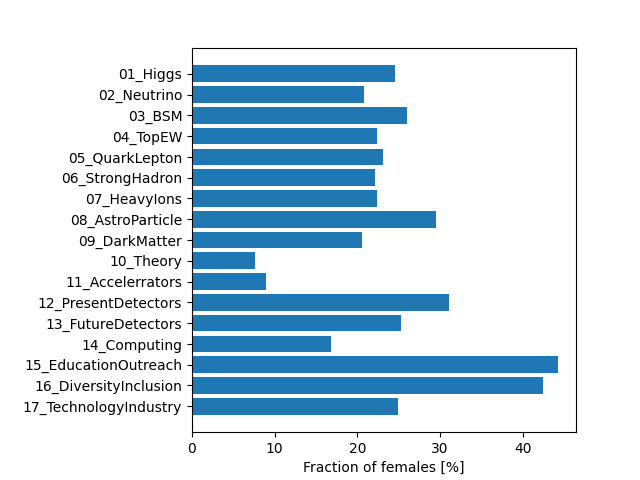
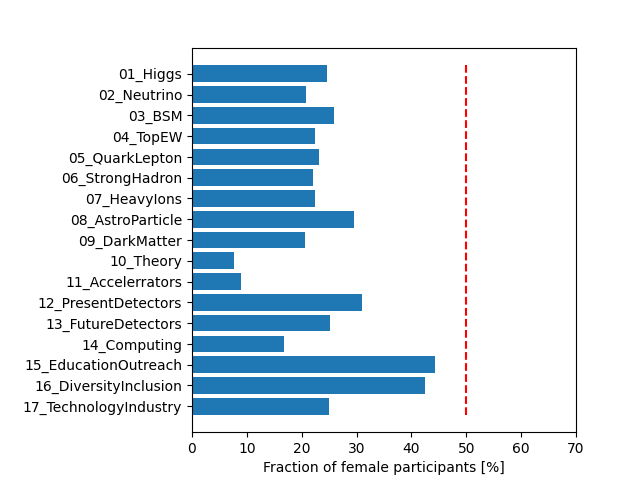
Adding stats of speakers

diff --git a/analyzeStats.py b/analyzeStats.py
@@ -362,28 +362,170 @@ def plotSessionsGender(df):
 
 
     plt.barh(sess, vals)
+    plt.plot([50,50], [-0.4, 16.4], '--r')
+    plt.xlim(0,70)
     plt.subplots_adjust(left=0.3, right=0.9, top=0.9, bottom=0.1)
-    plt.xlabel('Fraction of females [%]')
+    plt.xlabel('Fraction of female participants [%]')
     #plt.show()
     plt.savefig('plots/SessionsGender.png')
     plt.close()
+
+def plotSessionsGenderSpeakers(df):
+    sess = df['session'].unique()
+    sess = np.sort(sess)[::-1]
+
+    vals = []
+    for n in sess:
+        with open('speakers/'+n+".gen", 'r') as file:
+            data = file.read().replace('\n', '')
+            data = '['+ data + ']'
+            data = data.replace('null','None')
+            #print(len(data.splitlines()))
+            Names = eval(data)
+            #print(data)
+            #print(Names)
+
+            genderL = []
+            for i in Names:
+                if i['gender'] != None:
+                    #print(i['gender'], i['probability'])
+                    prob = i['probability']
+                    if i['gender'] == 'female' : prob = 1 - prob
+                    genderL.append(prob)
+
+            p = sum(genderL)/len(genderL)
+            print(n,(1-p)*100, len(genderL))
+            for i in range(10):
+                gNow = 0
+                for m in genderL:
+                    gNow += m*p / (m*p + (1-m)*(1-p))
+                p = gNow/len(genderL)
+
+            res = sum([1 for x in genderL if x <= 0.5])/len(genderL)*100
+            print(n,  res)
+            vals.append(res)
+
+    plt.barh(sess, vals)
+    plt.plot([50,50], [-0.4, 16.4], '--r')
+    plt.xlim(0,70)
+    plt.subplots_adjust(left=0.3, right=0.9, top=0.9, bottom=0.1)
+    plt.xlabel('Fraction of female speakers [%]')
+    #plt.show()
+    plt.savefig('plots/SessionsGenderSpeakers.png')
+    plt.close()
+
+
+def plotTotalGender(df):
+    #From the participants
+    namesDict = {}
+    fNames = open('namesAll')
+    for l in fNames:
+        if 'null' in l: continue
+        l = l.split(' ')
+        l[2] = float(l[2])
+        if l[1] == 'female': l[2] = 1 - l[2]
+        #print(l[0], l[2])
+        namesDict[l[0]] = l[2]
+
+    names = df[(df['mins'] >= 15)]['name'].unique()
+
+    nKnown = 0
+    isMale = 0
+    genderL = []
+    for n in names:
+        nameF = ""
+        for i in range(len(n)):
+            if n[i].isalpha():
+                nameF += n[i]
+            else:
+                break
+        if nameF in namesDict:
+            nKnown += 1
+            isMale += namesDict[nameF]
+            genderL.append(namesDict[nameF])
+
+    p = sum(genderL)/len(genderL)
+    for i in range(10):
+        gNow = 0
+        for m in genderL:
+            gNow += m*p / (m*p + (1-m)*(1-p))
+        p = gNow/len(genderL)
+
+    fracPartic = (1-p)*100
+    print(fracPartic)
+
+    # From the speakers
+    sess = df['session'].unique()
+    sess = np.sort(sess)[::-1]
+
+    genderL = []
+    for n in sess:
+        with open('speakers/'+n+".gen", 'r') as file:
+            data = file.read().replace('\n', '')
+            data = '['+ data + ']'
+            data = data.replace('null','None')
+            #print(len(data.splitlines()))
+            Names = eval(data)
+            #print(data)
+            #print(Names)
+
+            for i in Names:
+                if i['gender'] != None:
+                    #print(i['gender'], i['probability'])
+                    prob = i['probability']
+                    if i['gender'] == 'female' : prob = 1 - prob
+                    genderL.append(prob)
+
+    p = sum(genderL)/len(genderL)
+    print(n,(1-p)*100, len(genderL))
+    for i in range(10):
+        gNow = 0
+        for m in genderL:
+            gNow += m*p / (m*p + (1-m)*(1-p))
+        p = gNow/len(genderL)
+
+    #fracSpeakers = sum([1 for x in genderL if x <= 0.5])/len(genderL)*100
+    fracSpeakers = 100*(1-p)
+
+    #print(fracSpeakers, 100*(1-p))
+
+    lab  = ["From participants", "From speakers"]
+    vals = [fracPartic, fracSpeakers]
+
+
+    plt.figure(figsize=(7, 3))
+    plt.barh(lab, vals)
+    plt.plot([50,50], [-0.4, 1.4], '--r')
+    plt.xlim(0,70)
+    plt.subplots_adjust(left=0.3, right=0.9, top=0.9, bottom=0.14)
+    plt.xlabel('Fraction of females [%]')
+    #plt.show()
+    plt.savefig('plots/TotalGender.png')
+    plt.close()
+
+
 
 
 def analyze():
     df = loadAll()
     dfPlen = loadPlenary()
 
+    plotSessionsGenderSpeakers(df)
+
+    plotTotalGender(df)
+
     #printStats(df)
+
     plotSessionsGender(df)
-    plotDaysTotal(df, dfPlen)
-    plotSessionsTotal(df)
-    plotDurations(df)
-    plotDurationsCum(df)
+    #plotDaysTotal(df, dfPlen)
+    #plotSessionsTotal(df)
+    #plotDurations(df)
+    #plotDurationsCum(df)
 
-    plotDaysVisited(df)
+    #plotDaysVisited(df)
 
-    SessionsCorr(df)
-    SessionsIsol(df)
+    #SessionsCorr(df)
+    #SessionsIsol(df)
 
 
 analyze()

diff --git a/README.md b/README.md
@@ -39,3 +39,13 @@ Fraction of participants visiting only the particular session
 Fraction of female participants across ICHEP sessions
 
 ![Fraction of females in sessions](plots/SessionsGender.png)
+
+
+### Gender profile of the sessions - Speakers
+Fraction of female speakers across ICHEP sessions
+
+![Fraction of female speakers in sessions](plots/SessionsGenderSpeakers.png)
+
+### Gender profile of the whole conference
+
+![Fraction of female participants and speakers](plots/TotalGender.png)
